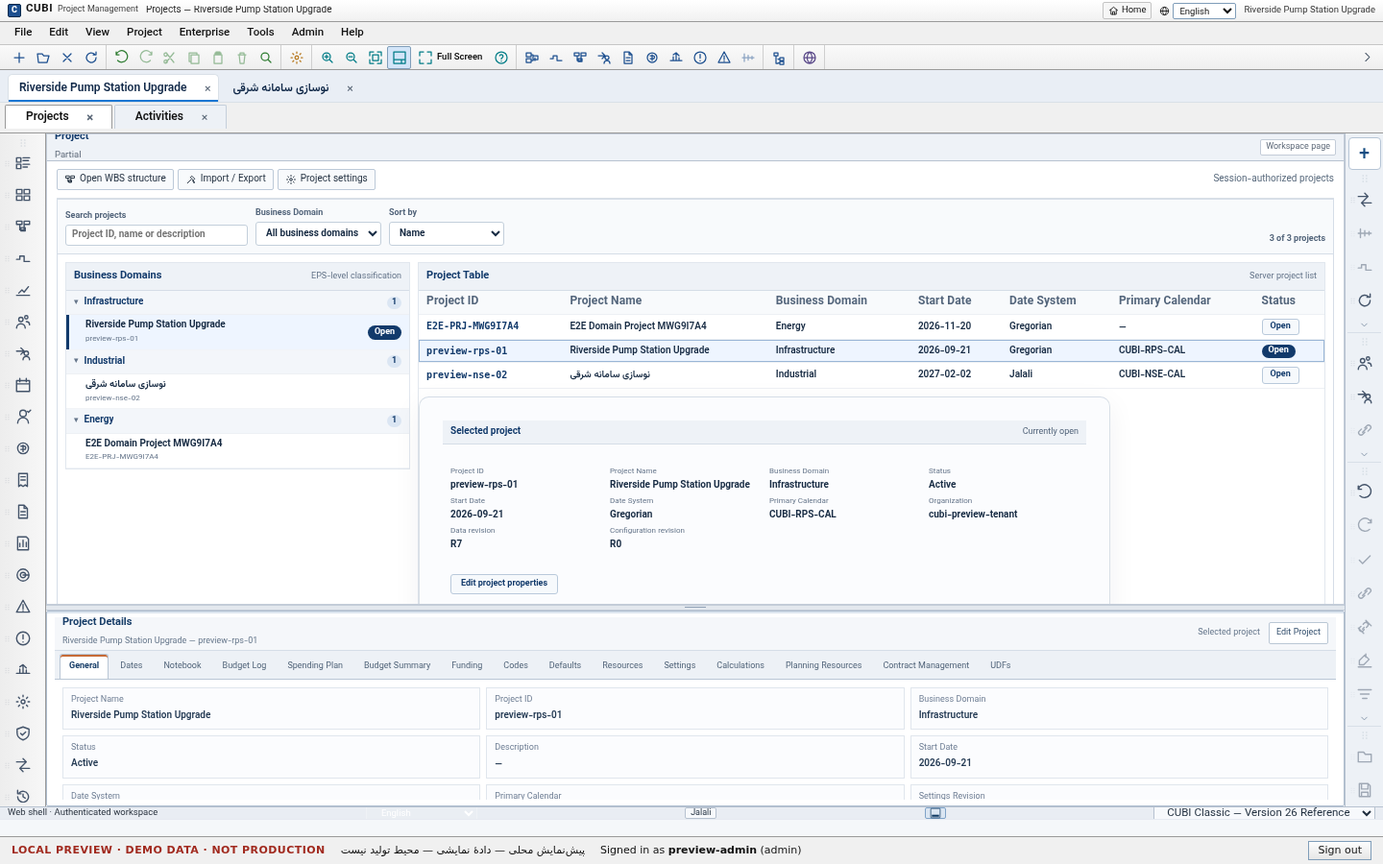
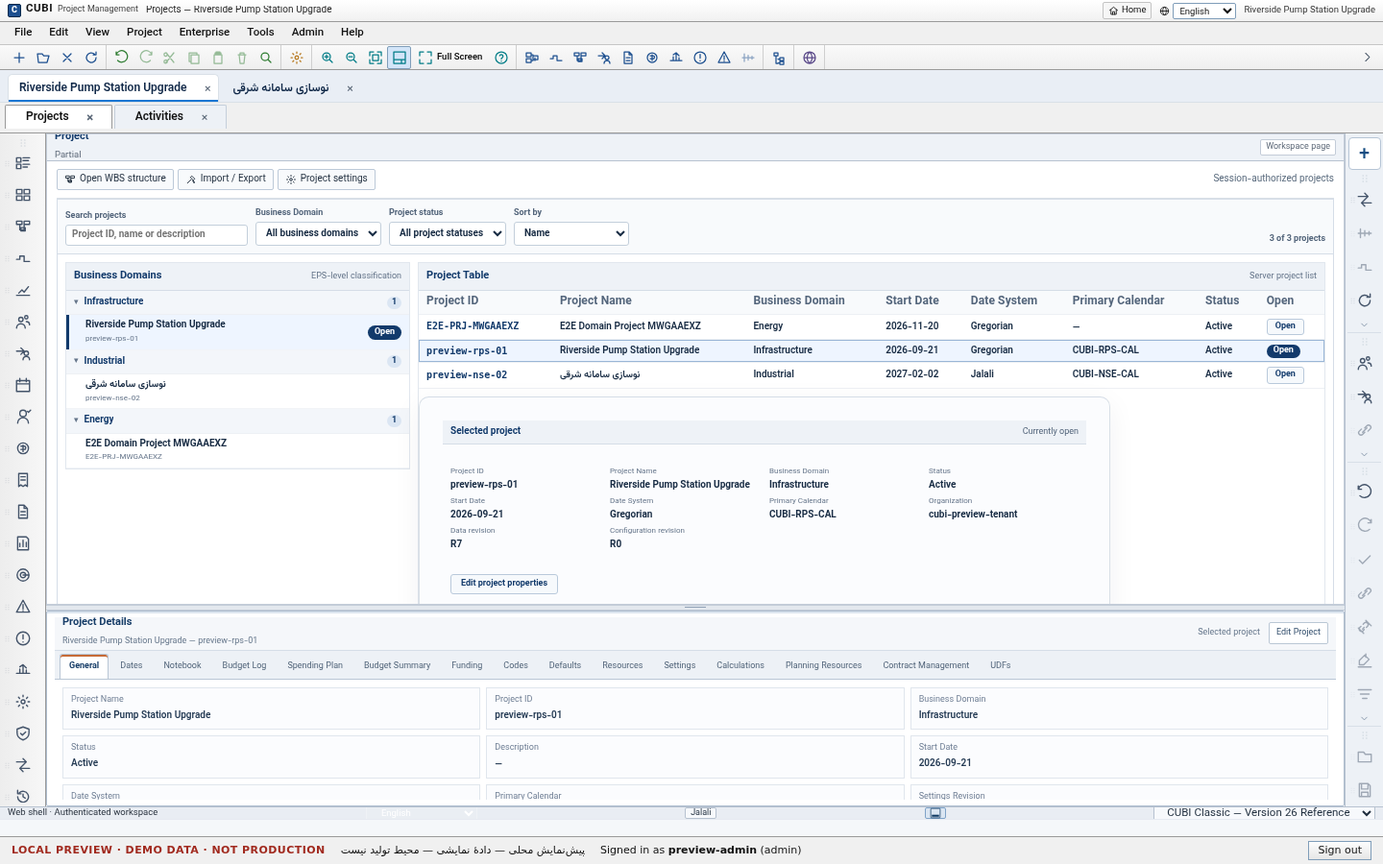
docs(projects): record project-status filter acceptance at f5dcafef
Register suite: 48/48 checks on a fresh SQLite runtime (planned write through
the lifecycle API, filtered tree/table/count/options, Active exclusion, reset,
fixture restore). Matrix, checkpoint and ledger record the status filter, the
fixed Status/Open table columns and the in-memory filtering limit.

Tested code: f5dcafef7c5d6ebdd3afe1fb979e41975dccd832.

diff --git a/docs/workspace/architecture/v26-window-traceability-and-acceptance-matrix.md b/docs/workspace/architecture/v26-window-traceability-and-acceptance-matrix.md
@@ -63,7 +63,7 @@ The source-page column identifies the section or chapter in the Version 26 HTML 
 | WBS-001 | Hierarchical WBS table and chart | Help: Defining WBS / WBS Chart and Table | WBS window | Same persisted nodes and ordering in both layouts | WIRED_READ (the WBS window renders a real table grid — WBS Code, WBS Name, Activities, Sequence, Rev — and a chart, both built from one ordered projection of the persisted nodes: siblings by sequence, then local code, then ID; selection and detail reading follow the same record across both layouts; a persisted child created through the WBS API appears at depth three in both after reload; writes (create/edit/delete) already existed and are not part of this slice; see §2.1) |
 | WBS-002 | WBS details, status and weighted milestones | Help: WBS Details / Status / Weighted Milestones | WBS Details | Field registry and roll-up tests | WIRED_WRITE (status Planned/Active/Inactive/What-If and the percent-complete technique Activities/WBS Milestones are persisted on the WBS master and edited from the General tab; the WBS Milestones tab lists, edits and saves weighted milestones through `PUT /p6/wbs/{id}/milestones` with a revision guard; the roll-up is completed weight ÷ total weight, verified 75% and 83.33% against the persisted record and the workspace read; see §2.1) |
 | WBS-003 | WBS copy/cut/paste/delete protections | Help: Copy/Cut and Paste a WBS Element; Delete a WBS Element | WBS window toolbar | Child/activity reference protection and undo/audit | WIRED_WRITE (Copy duplicates a persisted subtree beneath the selected element through `POST /p6/wbs/{id}/copy`, including codes, names, sequence, status, technique and weighted milestones, never activities; Cut pastes by moving the same record so activity assignments stay attached; a paste into a descendant is rejected as `WBS_HIERARCHY_CYCLE`; deleting a node with children or activities states the V26 precondition instead of the code; see §2.1) |
-| PRJ-001 | Authorized project register and hierarchy | Help: Projects / Add a project to the EPS hierarchy | Projects window | Authorization, tree, multi-project selection and filters | WIRED_WRITE (the register renders exactly the persisted tenant-scoped project list with a Business Domain hierarchy, search, domain filter, sort, selection preview without opening, keyboard selection, collapse, empty/loading/no-match states and the existing create/settings writes; a project is classified by `business_domain` on the single existing project model, and PATCH preserves the value when the field is omitted; multi-level EPS nodes, OBS and project-code hierarchy remain absent; see §2.1) |
+| PRJ-001 | Authorized project register and hierarchy | Help: Projects / Add a project to the EPS hierarchy | Projects window | Authorization, tree, multi-project selection and filters | WIRED_WRITE (the register renders exactly the persisted tenant-scoped project list with a Business Domain hierarchy, search, domain filter, project-status filter with present-value counts, sort, selection preview without opening, keyboard selection, collapse, empty/loading/no-match states and the existing create/settings writes; the table now shows the stored Status in its own cell with Open as a separate column, so filtering by Planned/Active/Inactive/What-If narrows both the tree and the table and Clear filters resets all three filters; a project is classified by `business_domain` on the single existing project model, and PATCH preserves the value when the field is omitted; 48/48 browser checks at `f5dcafef`; multi-level EPS nodes, OBS and project-code hierarchy remain absent; see §2.1) |
 | PRJ-002 | Project Details and defaults | Help: Project Details / Working with EPS | Projects Details | Field-by-field persistence and defaults application | WIRED_WRITE (General tab persists name, description, start date, date system, Business Domain and primary calendar behind the settings revision; the OBS responsible manager and web-site are stored project columns with normalization and an absolute http/https URL check that rejects credentials; leveling priority 1–100 writes through the single canonical `p6-project-schedule-settings-api.v1` record revision instead of a duplicate project column; checkout is an exclusive stored lease (`checked_in`/`checked_out` + owner/time) enforced by conditional SQL in SQLite and PostgreSQL, so another user's metadata or status save returns 409 and check-in is owner-only; denied writes show the localized permission message; 7/7 project-details scenarios at `f1ecba6e` in en 1366×768, viewer 1366×768 and fa RTL 1280×720; remaining: the OBS hierarchy is a stored string pending the enterprise OBS contract, canonical schedule-settings writes do not yet consult the lease, no status filtering, defaults application not audited; see §2.1) |
 | PRJ-003 | Project open/close/switch and tab lifecycle | Help: Open a project / Single-project mode versus multiproject mode | Workspace and Projects | Project switch, dirty state, revisions and active tabs | WIRED_WRITE (a project tab strip holds every project the session opened, one active tab, no close on the last; each switch re-authorizes through `POST /api/projects/{id}/open` and re-reads the session list; each tab owns its desktop window set; unsaved edits require confirmation before switch or active close, and a project transition removes the previous settings overlay; reload restores the set and active project; exclusive/shared access modes and cross-project integrated views are absent; see §2.1) |
 | REL-001 | Relationship create/edit/delete and predecessor/successor views | Help: Linking Activities with Relationships | Activity Details and relationship view | Endpoint, type, lag, calendar and revision tests | WIRED_WRITE (Logic / Relationships panel: every persisted row with pair, type, lag and record revision, create for FS/SS/FF/SF with lag, revision-guarded edit, confirmation-guarded delete, a visible notice for a self-link or duplicate instead of a silent no-op, reload persistence, the Activity Details Predecessors and Successors views reading the same records, and a viewer denial on write; 11/11 browser scenarios at `cdf27afb`; see §2.1) |
@@ -145,6 +145,7 @@ The source-page column identifies the section or chapter in the Version 26 HTML 
 | 2026-11-12 | ACT-018, ACT-019 (scale and presentation-free schedule input) | VERIFIED | Code `2b9bec96`, evidence bundle `docs/workspace/evidence/activity-scale-v26-2026-11-12/` (`activity-scale-v26.json` records `testedCodeSha`/`gitHead` `2b9bec966b3c4cfaf57baf4e4be1ed1cdda51771`, 8/8 scenarios, zero exceptions/console errors/5xx; screenshots 01–06). **Population:** the browser suite seeds 240 real activities through `POST /api/projects/preview-rps-01/p6/activities` (`p6-activity-master-api.v1`, `PROJECT_WRITE`) on top of the 14 seeded masters, so the read model and the grid hold 254 rows. The table renders 254 `tbody tr[data-activity-id]` rows and the Gantt 254 `data-gantt-activity-id` bars with no slice, shift or `limit` in the Web renderer (`renderMainWorkspace` → `filterAndSortActivities` → `buildWorkspaceDisplayRows`, no `.slice(0, n)` on the row collection), the scroll container reaches its clamped bottom with the last row fully visible, and a reload returns all 254 from `workspace-read.v2`. **Presentation independence:** a quick filter narrows the drawn rows to the 240 seeds; collapsing all WBS branches draws 0 activity rows; hiding `activity.name` keeps 254 rows. In every case the authoritative run is unchanged: `/p6/schedule/snapshots` publishes the same population and `/api/v1/schedule/query` returns `activity_count: 254` with 254 fact entries. `AuthoritativeScheduleInputComposer.compose(scope, *, snapshot_id)` takes no filter, collapsed, column or selection parameter and re-reads `activity_repository.list(scope)`, so presentation state cannot enter the schedule input. The Persian RTL cell at 1366×768 draws 254 rows with 0 px horizontal overflow. Tests: `apps/web/src/workspace-activity-scale.test.ts` (5 tests: 300 rows/300 bars, deterministic markup, filter narrows 300→99 without mutating state, collapse hides rows without dropping state, hidden column keeps every row and cell), `tests/test_activity_scale_snapshot_completeness.py` (3 tests: 260 persisted activities compose into one input, two fresh reads produce identical activities/relationships/constraints/calendar, and the compose signature admits only `self/scope/snapshot_id`). GAP-V26-01 is unaffected: these are CUBI invariants, not Oracle parity claims. Remaining gaps: no continuous scroll-sync stress at 250+ rows, no multi-project population test, and virtualisation is not used (the grid renders all rows, which is correct at 254 but may need windowing for much larger projects). |
 | 2026-11-14 | PRJ-002 (permission feedback) plus PRJ-001/PRJ-003 regression acceptance | WIRED_WRITE | Code `d98fa1d7ed2b7803bda6368d34e57aa98e1ade59`, evidence bundle `docs/workspace/evidence/project-status-v26-2026-11-14/` (`report.json` records `testedCodeSha`/`gitHead` `d98fa1d7ed2b7803bda6368d34e57aa98e1ade59`; 6/6 scenarios, screenshots 01–06, zero exceptions/console errors/5xx). HTML Help topics: [General tab - Project Details](https://docs.oracle.com/cd/G48902_01/client_help/en_US/general_tab_-_project_details.htm) and [Filter by project status](https://docs.oracle.com/cd/G48902_01/client_help/en_US/filter_by_project_status.htm). The acceptance run exposed a real presentation defect: `openProjectSettings` matched authorization codes case-sensitively (`includes("authorization")`) while the server returns `AUTHORIZATION_PERMISSION_DENIED`, so a denied metadata/status save fell through to the generic "changes were not saved" text instead of the localized permission message. `apps/web/src/main.ts` now normalizes the code (`toLowerCase`, also matching `permission_denied`) before choosing the forbidden branch; both the metadata form and the status save share the helper. Browser evidence: `apps/web/e2e/project-status-v26.mjs` — scenario 05 now reads `Your account does not have permission to edit this project.`, the select reverts to the stored `planned` status, and the direct write still returns 403; the remaining five scenarios (empty history, append-only save, reload, 1920×1080, Persian RTL) pass unchanged. Regression acceptance on the same dual-rail code: `project-tabs-v26.mjs` 30/30 checks (tab set, per-project window sets, dirty-switch guard, revision conflict, Viewer scope, Persian RTL) and `project-register-v26.mjs` 38/38 checks (persisted tenant-scoped register, Business Domain tree/search/sort, create/settings writes, Viewer denial). Limitations remain: no OBS responsible manager, leveling-priority, checkout or web-site fields on Project Details, no status-based filtering, and defaults application is still un-audited; those need stored fields and therefore are not fabricated in the UI. |
 | 2026-11-14 | PRJ-002 (OBS responsible manager, leveling priority, checkout, web-site) | WIRED_WRITE | Code `f1ecba6eeea4310dc05e231b21a83d6e1d6073c8`, evidence bundle `docs/workspace/evidence/project-details-v26-2026-11-14/` (`report.json` records `testedCodeSha`/`gitHead` `f1ecba6eeea4310dc05e231b21a83d6e1d6073c8`; 7/7 scenarios in en 1366×768, Viewer 1366×768 and fa RTL 1280×720, 9 screenshots, zero exceptions/console errors/API failures). HTML Help topics: [General tab - Project Details](https://docs.oracle.com/cd/G48902_01/client_help/en_US/general_tab_-_project_details.htm), [Working with EPS](https://docs.oracle.com/cd/G48902_01/client_help/en_US/working_with_eps.htm) and [Filter by project status](https://docs.oracle.com/cd/G48902_01/client_help/en_US/filter_by_project_status.htm). **Stored contract:** `ProjectSummary` gains `obs_responsible_manager`, `website_url`, `checkout_state`, `checked_out_by` and `checked_out_at`; create/PATCH normalize the manager (trim, 160 max, `PROJECT_OBS_RESPONSIBLE_MANAGER_TOO_LONG`) and the web-site (trim, absolute http/https, host required, no userinfo, 2048 max, `PROJECT_WEBSITE_URL_INVALID`). `POST /api/projects/{id}/checkout` (`project-checkout-api.v1`, `{checked_out, expected_revision}`) requires `PROJECT_ADMIN`, treats a repeated state as an idempotent no-op, rejects another owner with 409, and distinguishes a stale revision (`PROJECT_REVISION_CONFLICT`) from a live lease (`PROJECT_CHECKOUT_CONFLICT`/`PROJECT_CHECKED_OUT_BY_OTHER`). Both the SQLite preview store and `PostgresProjectRepository` perform a conditional `UPDATE … WHERE settings_revision = ? AND checkout_state = ?` (check-in additionally matches the owner) and increment the revision only on the successful transition. Metadata and status writes by a different user while the lease is held return 409 and never mutate the row. **Leveling priority:** writes the existing canonical `p6-project-schedule-settings-api.v1` settings object with `project_leveling_priority` 1–100 and `expected_record_revision`; there is deliberately no second priority column, so the one record revision protects both scheduling options and priority. **UI:** the settings dialog reads the stored values on open, renders checkout state/owner/time and a check-out or check-in control, loads the priority with a validated save, distinguishes the localized permission reason for readers (disabled controls) from a load failure, and shows conflict text on stale writes; the metadata Save button now calls `form.requestSubmit()` because it sits outside the form and previously did nothing. **Defect found and fixed:** that dead Save button meant no Project Details metadata save reached the server. **Tests:** Python `test_project_lifecycle.py` (+4), `test_project_lifecycle_http_routes.py` (+5) and `test_postgres_project_lifecycle.py` (+2) cover normalization, URL rejection, exclusive checkout, blocked edits and conditional SQL; full Python suite at the same code with live PostgreSQL `4452 passed, 1 skipped` plus the workflow's PostgreSQL integration list `156 passed`; Web `1117 tsx + 14 node --test`, `tsc --noEmit` and esbuild pass; regressions `project-tabs-v26.mjs` 30/30, `project-register-v26.mjs` 38/38, `project-status-v26.mjs` 6/6, `preview-e2e.mjs` 97 checks, each on its own fresh SQLite runtime at `f1ecba6e`. **Limits:** the enterprise OBS hierarchy does not exist, so the responsible manager is a validated project string pending the Agent 3 OBS contract; schedule-settings writes do not consult the checkout lease yet; status filtering and audited defaults application remain open. |
+| 2026-11-14 | PRJ-001 (project-status filtering) | WIRED_WRITE | Code `f5dcafef7c5d6ebdd3afe1fb979e41975dccd832`, evidence bundle `docs/workspace/evidence/project-register-v26-2026-11-14/` (`contract.json` records `testedCodeSha`/`gitHead` `f5dcafef7c5d6ebdd3afe1fb979e41975dccd832`, 48/48 checks, status `passed`). HTML Help topics: [Projects](https://docs.oracle.com/cd/G48902_01/client_help/en_US/49097.htm) and [Filter by project status](https://docs.oracle.com/cd/G48902_01/client_help/en_US/filter_by_project_status.htm). `ProjectRegisterState` gains `status`; the toolbar renders a `data-project-status-filter` select built only from the statuses present in the authorized rows (`active`, `inactive`, `planned`, `what_if` with counts), the same predicate narrows the tree and the table, and Clear filters resets query, domain and status. Search also matches the localized status label. **Defect found and fixed:** the table's last column was headed Status but rendered the Open action, so no row showed its stored status; the table now has a real Status cell and a separate Open column (colspan 8). Browser scenario `06b` writes `planned` through `POST /api/projects/{id}/status`, reloads, filters Planned (single row and Industrial tree group, count `1 of N`), checks the option labels, filters Active, resets, and restores the fixture status. Unit tests cover the status change, filtered counts, Active exclusion and reset. Tests at the same code: `workspace-view.test.ts` 111 pass; full Web suite 1118 `tsx` + 14 `node --test`, `tsc --noEmit` and esbuild pass. Limit: the filter is in-memory over the authorized list; it does not add a server-side status query parameter. |
 | 2026-11-13 | WS-007 (New, Reset to Default, dirty state, unsaved-changes prompt, Delete truthfulness) | WIRED_WRITE (Delete BLOCKED_EXTERNAL) | Code `58a951bf`, evidence bundle `docs/workspace/evidence/layout-selector-v26-2026-11-13/` (`layout-selector-v26.json` records `testedCodeSha`/`gitHead` `58a951bff300f1148832e5793ea3b094a2315756`, 15/15 scenarios, zero exceptions/console errors/5xx; screenshots 01–18). HTML Help topics: [Customizing Activity Layouts](https://docs.oracle.com/cd/G48902_01/client_help/en_US/customizingactivitylayouts.htm), [Open a layout](https://docs.oracle.com/cd/G48902_01/client_help/en_US/open_a_layout.htm) ("You are prompted to save the current layout"), [Create a new activity layout](https://docs.oracle.com/cd/G48902_01/client_help/en_US/create_a_new_activity_layout.htm), [Save a layout in the Activities or Resource Assignments window](https://docs.oracle.com/cd/G48902_01/client_help/en_US/save_a_layout_in_the_activities_or_rsrc_assignments_window.htm) and [Delete a layout](https://docs.oracle.com/cd/G48902_01/client_help/en_US/delete_a_layout.htm). CUBI component: the Activities layout selector (`apps/web/src/workspace-layout-selector.ts`, wired in `apps/web/src/main.ts`). `layoutHasUnsavedChanges` compares the window's group mode, ordered sort levels and presentation with the stored revision's `groupSort`/`presentation` metadata (a revision without a plan is compared with the Activities defaults, so a fresh load is clean); the selector renders `data-layout-state="dirty"` and asks `confirmDiscard` before previewing another layout, Reload, New or Reset. **New** reads `GET /p6/layouts/user/activity/default` and writes the canonical default columns into the **user** scope under the prompted name (`revision = existing.revision + 1`), confirming replacement because the service stores one user document per view; **Reset to Default** writes the default columns, `normalizePresentation(undefined)` and the `wbs`/`wbs asc` plan into the user scope while keeping the stored name, and hydrates the browser presentation/group state before rendering. Both are real append-only writes through `createP6LayoutPersistence`; the project layout is never rewritten. **Delete** renders disabled with the localized reason that the layout service has no delete endpoint (contract request `docs/workspace/architecture/p6-layout-lifecycle-contract-request.md`). `layout.open` now opens this chooser instead of the Columns dialog, and `layout.save-as` writes the user scope like the selector. Permissions: New/Reset/Save/Save As/Rename/Import require `planner` or `project_admin` (server `PROJECT_WRITE`); Viewer sees every write disabled with `Your role cannot save layouts` and opening the menu appends no revision. Revision-conflict recovery (`REVISION_CONFLICT`/`IMMUTABLE_LAYOUT_REVISION` → reload authoritative head + localized notice) and full reload restoration are unchanged and re-cited from `apps/web/e2e/preview-e2e.mjs` and scenarios 05/07/13. Tests: `apps/web/src/workspace-layout-selector.test.ts` (26 tests: dirty group/sort/presentation, default-plan baseline, New/Reset/Delete markup, dirty chip) and browser scenarios 11–15 (dirty→Save publishes only on Save, New leaves the project revision untouched, Reset restores defaults and survives reload, Delete disabled + discard prompt declined/accepted, Viewer read-only). Remaining gaps: Delete is blocked on the backend; the service keeps one user layout per project/view (no independent named collection), so New/Save As/Import replace that slot; dirty state covers group/sort/presentation only because column edits append immediately; Resource Assignments/Tracking layouts remain out of scope. |
 | 2026-11-13 | ACT-002 (multi-level grouping, nesting and independent collapse) | WIRED_WRITE | Code `5945c90723fe63d221d213588fbbfcfd2089475c`, evidence bundle `docs/workspace/evidence/activity-group-sort-v26-2026-11-13/` (`activity-group-sort-v26.json` records `testedCodeSha`/`gitHead` `5945c90723fe63d221d213588fbbfcfd2089475c`, 9/9 scenarios, zero exceptions/console errors/5xx; screenshots 01–09, `CHECKLIST.md`). HTML Help topics: [Group activities by field](https://docs.oracle.com/cd/G48902_01/client_help/en_US/group_activities_by_field.htm), [Grouping by hierarchy](https://docs.oracle.com/cd/G48902_01/client_help/en_US/grouping_by_hierarchy.htm) and [Grouping activities by WBS path](https://docs.oracle.com/cd/G48902_01/client_help/en_US/grouping_activities_by_wbs_path.htm). CUBI component: Activities → View → Group and Sort By. Model and engine: `WorkspaceState.activityGroupLevels` (`apps/web/src/workspace-model.ts`) is the ordered source of truth (max 3, unique valid fields, `activityGroupBy` mirrors only whether the outer band is WBS); `apps/web/src/workspace-grouping.ts` owns the six-field catalog (`wbs`, `activity_status`, `activity_type`, `is_critical`, `activity_code`, `total_float`), reads values only from persisted `cells` (`groupFieldValue` never recalculates), builds typed band keys (`s:`, `n:`, `b:`, `e:`; WBS node ids stay the top-level key so Collapse To keeps working), and orders sibling bands with `compareGroupBands` (natural/numeric, “No value” always last) before the direction applies; `buildWorkspaceDisplayRows` (`apps/web/src/workspace-wbs-display.ts`) emits WBS bands from the persisted tree in sequence order and field bands by typed value, nesting up to three levels with composite keys (`<parent>><fieldId>:<key>`, `<parent>>wbs:<nodeId>`), derived start/finish/duration/progress rollups and a count per band; a WBS level with no loaded nodes is skipped rather than grouping by raw ids; `filterAndSortActivities` (`apps/web/src/workspace-filter-sort.ts`) removes every field the plan already groups (including P6 column aliases) from the in-band sort, so the innermost band keeps the configured order and the builder never re-sorts. Persistence and UI: `workspace-layout-settings.ts` validates and writes `metadata.groupSort.groupLevels` (legacy `groupBy` still reads as one WBS level); `main.ts` hydrates it once per layout revision, saves the current plan on Save/Save As/New/Reset, and the desktop shell passes it to the Group and Sort dialog; `workspace-dialogs.ts` renders three ordered field+direction rows using the shared catalog and writes them through the existing layout patch; the toolbar select remains the single-level shortcut. Collapse: every band key (WBS, field and nested) uses the existing per-project `cubi:workspace-wbs-collapse` store, so bands collapse independently and survive reload and Save; the layout's `wbsCollapse` metadata still carries node ids. Boundary: the plan is presentation-only — no activity, date, duration, relationship or schedule input is written; the Gantt reads the same display rows so its band rows and bars stay aligned. Browser suite `apps/web/e2e/activity-group-sort-v26.mjs` (contract `cubi-activity-group-sort-v26.v2`) computes every expected band from `GET /api/v2/workspace/control-room/read`: 01 the dialog exposes three group rows with the six fields and the default WBS plan, applies Start desc + name asc with no bands, and the Gantt follows; 02 Save Layout stores `none` with no levels and a full reload restores the order; 03 WBS bands keep name-ascending activities inside every band, store `[{wbs, asc}]` and reload; 04 the Persian dialog and a flat plan render RTL at 1280×720 with 0 px overflow; 05 1920×1080 fits; 06 Activity Status renders `Completed (3)`, `In Progress (1)` and `Not Started (10)` in persisted natural order with the toolbar, table and Gantt aligned, one band collapses to 11 visible rows while its siblings stay open, then saves and reloads `[{activity_status, asc}]`; 07 WBS + Activity Status nests status bands inside each WBS node with exact per-node labels/counts, a nested band and a WBS band each collapse without touching the other, and `[{wbs, asc}, {activity_status, asc}]` survives reload; 08 a field-first `is_critical` → WBS plan renders `Critical (7)`/`Non-critical (7)` outer bands with WBS bands nested inside and stores both levels; 09 the nested plan stays readable in Persian RTL at 1280×720 with 0 px overflow. Unit tests at the same code: 1016 `tsx` + 14 `node --test` pass; `tsc --noEmit`, `tsc -p tsconfig.test.json --noEmit` and `npm run build` pass. Remaining gaps: the toolbar select changes only the first level; group bands have no per-band fonts/colours of their own yet (they inherit the WBS band palette); free-form WBS path strings (concatenated P6 path as a single band) are not offered — the WBS level is the persisted hierarchy; sorting by a grouped field is intentionally skipped; no virtualisation for very large grouped tables. |
 | 2026-11-12 | WS-007 (layout rename/export/import) | WIRED_WRITE | Code `4f76241b`, evidence bundle `docs/workspace/evidence/layout-selector-v26-2026-11-12/` (`layout-selector-v26.json` records `testedCodeSha`/`gitHead` `4f76241b93266693e150bb6a5948ba9b073aa171`, 10/10 scenarios, zero exceptions/console errors/5xx; screenshots 01–11). HTML Help topic: [Customizing Activity Layouts](https://docs.oracle.com/cd/G48902_01/client_help/en_US/customizing_activity_layouts.htm) (layouts are saved, named and reopened per user/project). The selector's command set now covers **Save As, Rename, Export and Import** on top of the already-wired Open/Apply/Cancel/Save. `apps/web/src/workspace-layout-selector.ts` adds `LAYOUT_EXCHANGE_FORMAT = "cubi-layout.v1"` with `serializeLayoutDocument` (emits format, name, columns and metadata only — no tenant, project, scope or revision) and `parseLayoutDocument` (rejects malformed/foreign/unnamed documents with `INVALID_LAYOUT_DOCUMENT[_NAME]`, validates every column against the live `FieldRegistry` with `P6_COLUMN_FIELD_NOT_IN_REGISTRY`, then normalises and forces user scope at revision 0). Rename reuses `saveCurrentLayout(name)` so it stays an append-only revision of the same scope; Export builds a `Blob` and anchors a download; Import reads the chosen `File`, validates it and writes user scope at `existing.revision + 1` through the existing `createP6LayoutPersistence` path, so the project layout is never overwritten. Wiring in `apps/web/src/main.ts` (`layoutFileName`, `exportCurrentLayout`, `importLayout`, `onRename/onExport/onImport`); the server layout service is unchanged. Tests: `apps/web/src/workspace-layout-selector.test.ts` (export format/name/no scope/revision/tenant-project leakage, import user scope revision 0, malformed/foreign/unnamed rejection, registry rejection, save/open/rename/export/import disabled states). Browser suite `apps/web/e2e/layout-selector-v26.mjs` (contract `cubi-layout-selector-v26.v1`) — 10/10 at 1280×720, 1366×768, 1920×1080 and a Persian RTL cell: default selector, stored catalogue, Save As, preview/Cancel exact restore, Apply + reload, revision advance without touching schedule data, project isolation, 1920×1080 redraw, RTL, and the rename→export→import round trip (revision advances, columns preserved, activity rows unchanged). Remaining gaps: delete-with-confirmation, dirty-state save/discard/cancel, reset-to-default, Resource Assignments/Tracking layouts, and layouts are still scoped by layout scope rather than user identity. |

diff --git a/docs/governance/PROJECT_STATE_LEDGER.md b/docs/governance/PROJECT_STATE_LEDGER.md
@@ -993,3 +993,10 @@ The CI results prove the tested code paths, not live deployment or full V1 accep
 - **Tests at the same code:** Python full suite with live PostgreSQL `4452 passed, 1 skipped`; workflow PostgreSQL integration list `156 passed`; focused lifecycle/HTTP/PostgreSQL `138 passed`; Web `1117 tsx + 14 node --test`, typecheck and esbuild pass. Browser `project-details-v26.mjs` 7/7 (9 screenshots) plus regressions `project-tabs-v26.mjs` 30/30, `project-register-v26.mjs` 38/38, `project-status-v26.mjs` 6/6 and `preview-e2e.mjs` 97 checks, each on a fresh SQLite runtime.
 - **Evidence:** `docs/workspace/evidence/project-details-v26-2026-11-14/` (report records `testedCodeSha`/`gitHead` = `f1ecba6eeea4310dc05e231b21a83d6e1d6073c8`); regression bundles `project-tabs-v26-2026-11-14`, `project-register-v26-2026-11-14`, `project-status-v26-2026-11-14`.
 - **Remaining limits:** no enterprise OBS hierarchy (responsible manager is a validated string pending the Agent 3 OBS contract); canonical schedule-settings writes do not consult the checkout lease yet; status filtering, audited defaults application, and the remaining PRJ-001/PRJ-003 behaviors stay open. RES-004/RES-005/TRK-001/PRO-002 remain unaudited; PR #1923 stays open; P4 stays BLOCKED_EXTERNAL.
+
+## PRJ-001 project-status filtering — 2026-11-14
+
+- **Implementation (`f5dcafef`):** the Projects register gains a status filter (`data-project-status-filter`) built from the statuses present in the authorized project list, with counts. The selected status narrows both the Business Domain tree and the table, search matches the localized status label, and Clear filters resets search, domain and status together.
+- **Defect fixed:** the table's last column was labelled Status but rendered the Open action, so the stored status never appeared in a row. The table now renders a real Status cell and a separate Open column (colspan 8).
+- **Tests:** `workspace-view.test.ts` 111 pass (status change, filtered counts, Active exclusion, reset); full Web 1118 `tsx` + 14 `node --test`, typecheck and build pass. `project-register-v26.mjs` 48/48 checks at `f5dcafef7c5d6ebdd3afe1fb979e41975dccd832`; scenario `06b` writes Planned through the lifecycle API, verifies the filtered tree/table/count/options, switches to Active, resets and restores the fixture. Evidence: `docs/workspace/evidence/project-register-v26-2026-11-14/`.
+- **Limit:** filtering is in-memory over the session-authorized list; it does not add a server-side status query parameter. Multi-level EPS/OBS/project-code hierarchy remain absent; RES-004/RES-005/TRK-001/PRO-002 remain unaudited; P4 stays BLOCKED_EXTERNAL.

diff --git a/docs/workspace/evidence/project-register-v26-2026-11-14/CHECKLIST.md b/docs/workspace/evidence/project-register-v26-2026-11-14/CHECKLIST.md
@@ -1,6 +1,6 @@
 # PRJ-001 project register acceptance — 2026-11-14
 
-Tested code SHA: `f1ecba6eeea4310dc05e231b21a83d6e1d6073c8`
+Tested code SHA: `f5dcafef7c5d6ebdd3afe1fb979e41975dccd832`
 Contract: `cubi-prj-001-project-register.v1`
 
 PASS — the Projects window renders the register
@@ -34,9 +34,19 @@ PASS — a stale configuration revision is rejected without overwriting
 PASS — an unknown classification is rejected
 PASS — the stored record still holds the last accepted domain
 PASS — the Energy group now contains the project and Construction is gone
+PASS — the second project is readable before the filter check
+PASS — the project status is stored through the lifecycle contract
+PASS — only the planned project remains in the tree and table
+PASS — the count reports the filtered subset
+PASS — the surviving row shows its stored Planned status
+PASS — the status column is separate from the Open action
+PASS — the filter lists every present status with its count
+PASS — the Active filter excludes the planned project
+PASS — Clear filters restores the full status set
+PASS — the suite restores the fixture status
 PASS — the Persian workspace is right-to-left
 PASS — the tree and rows use Persian domain labels
-PASS — search, filter and selection surfaces are present in Persian
+PASS — search, domain, status and selection surfaces are present in Persian
 PASS — the register does not overflow the 1280 viewport
 PASS — the Viewer sees exactly the session-authorized records
 PASS — the Viewer gets the same Business Domain hierarchy

diff --git a/docs/qa/CUBI_V26_EXECUTION_CHECKPOINT.md b/docs/qa/CUBI_V26_EXECUTION_CHECKPOINT.md
@@ -3665,6 +3665,26 @@ and [Filter by project status](https://docs.oracle.com/cd/G48902_01/client_help/
   `project-tabs-v26.mjs` **30/30**, `project-register-v26.mjs` **38/38**,
   `project-status-v26.mjs` **6/6**, `preview-e2e.mjs` **97** checks.
 
+### PRJ-001 status filtering — 2026-11-14 (`f5dcafef`)
+
+- The Projects register now has a **Project status** filter beside search,
+  Business Domain and sort. Options come only from statuses present in the
+  authorized rows, with counts; the same predicate filters the domain tree and
+  the table; Clear filters resets query, domain and status; search also matches
+  the localized status label.
+- **Defect fixed:** the table's last column was headed Status but rendered the
+  Open action, so the stored status was never shown in a row. Status now has
+  its own cell and Open a separate column (colspan 8).
+- `apps/web/e2e/project-register-v26.mjs`: **48/48** checks at
+  `f5dcafef7c5d6ebdd3afe1fb979e41975dccd832`. Scenario `06b` writes `planned`
+  through the lifecycle API, reloads, filters Planned (one row, Industrial
+  group, `1 of N`), verifies option counts, filters Active, resets, and
+  restores the fixture status. Evidence:
+  `docs/workspace/evidence/project-register-v26-2026-11-14/`.
+- Web at the same code: 1118 `tsx` + 14 `node --test`, `tsc --noEmit` and
+  esbuild pass. Limit: filtering is in-memory over the authorized list; no
+  server-side status query parameter was added.
+
 ### Remaining PRJ-002 / window gaps
 
 - The enterprise OBS hierarchy still does not exist; the responsible manager is
